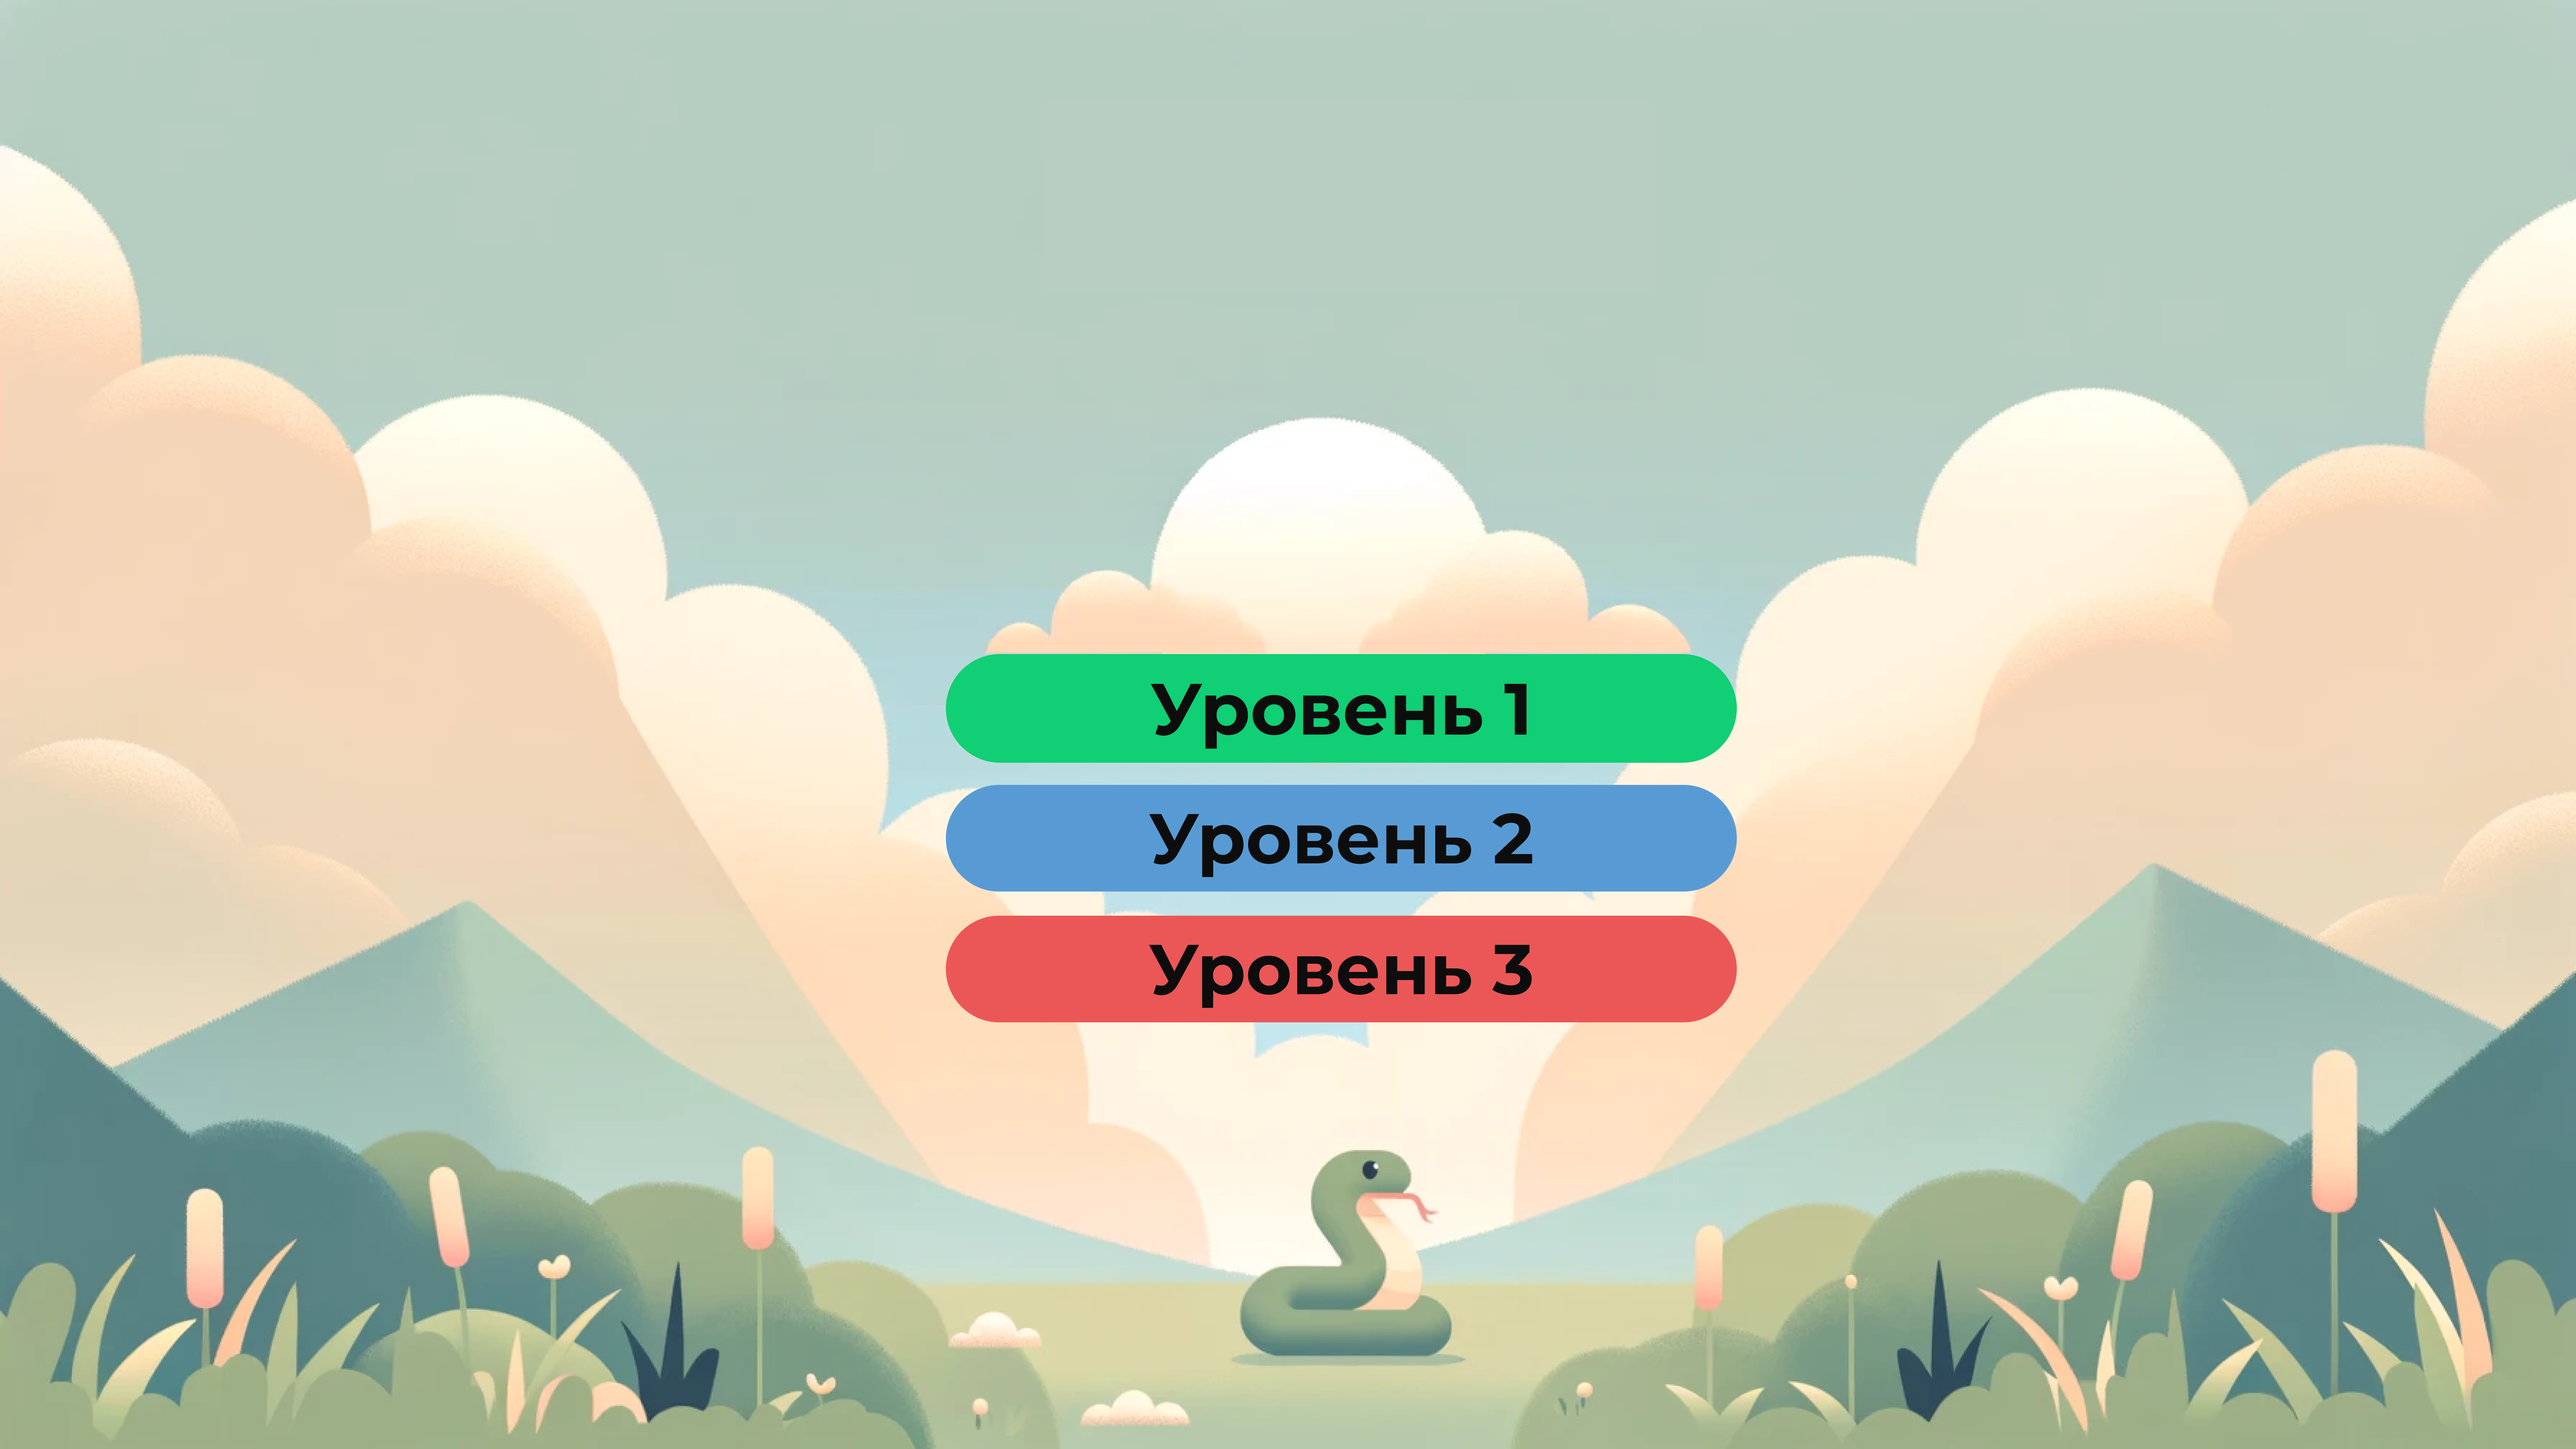
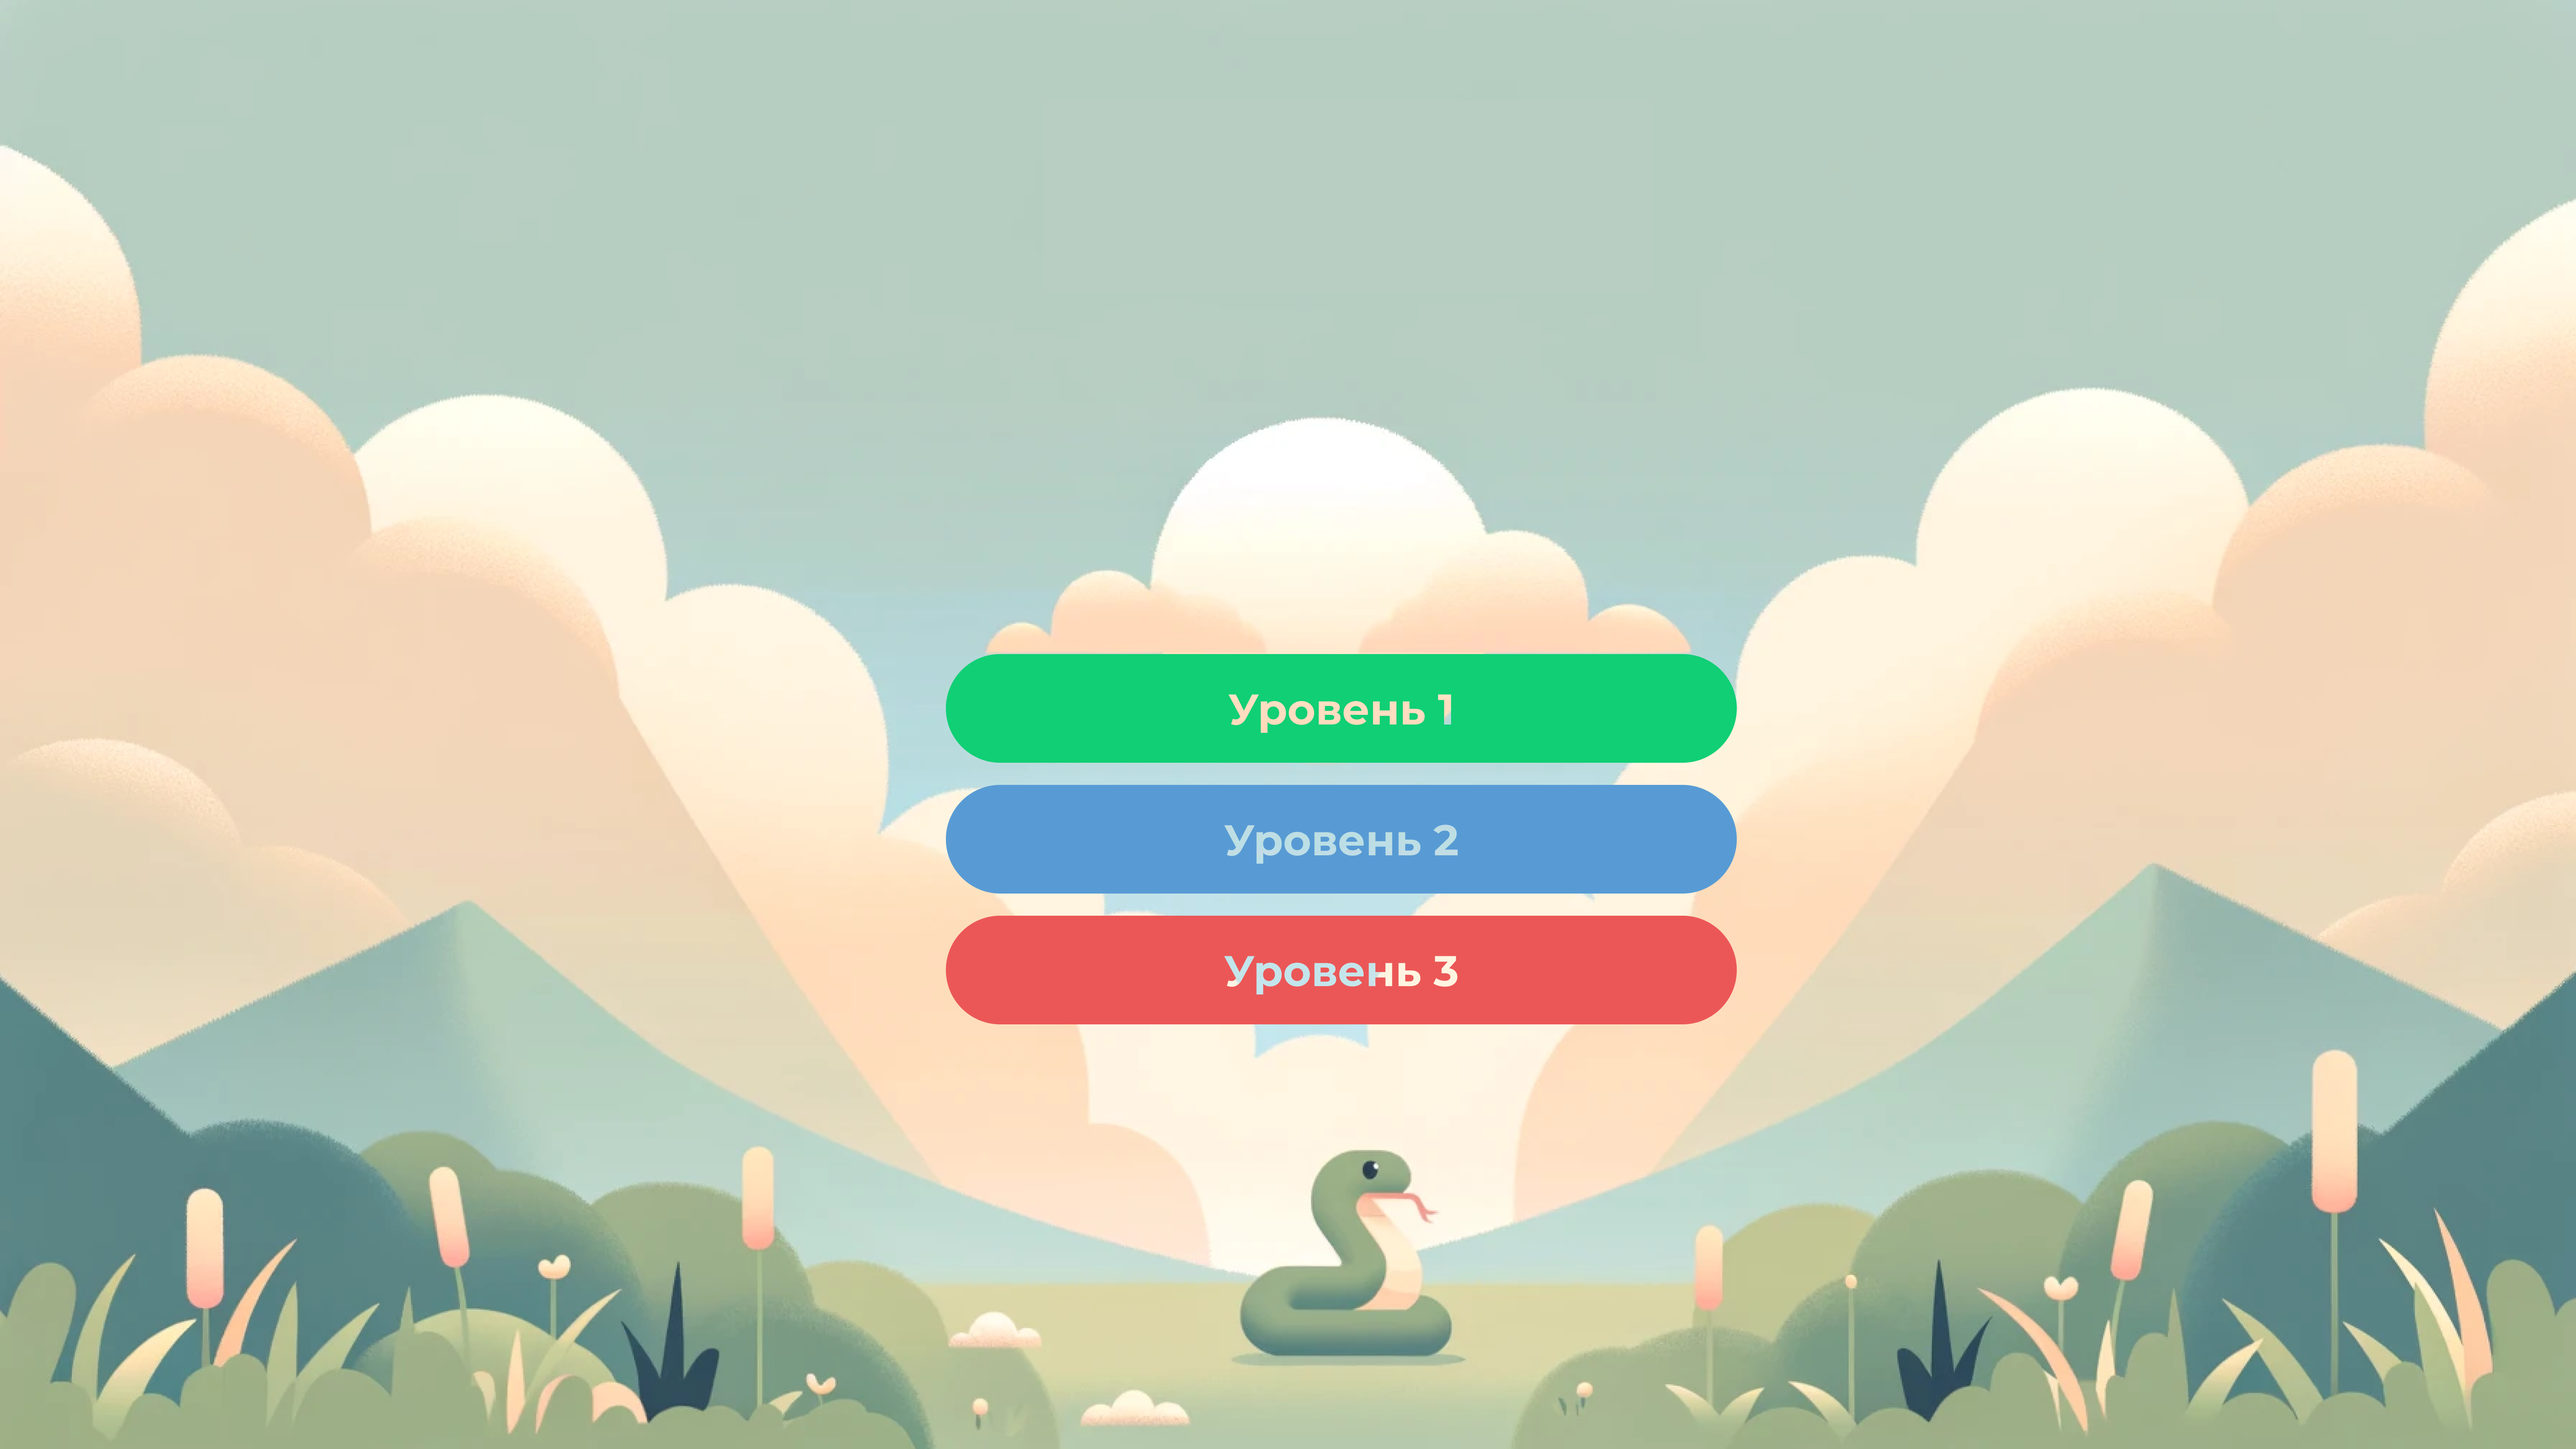
snake-level-all-v1.9

Changed region(s): [[0.4375, 0.56, 0.5938, 0.6222], [0.4375, 0.4667, 0.5938, 0.5289], [0.4375, 0.6533, 0.5938, 0.6844]]

diff --git a/level_choice_win.py b/level_choice_win.py
@@ -67,15 +67,14 @@ class Game:
                     self.Mouse_y in range(30, 30 + 40)):
                 self.running = False
 
-    def main_menu(self):
+    '''def main_menu(self):
         level1_button = self.button(*self.btn_level1_pos, self.green, 'Уровень 1', 30)
         level2_button = self.button(*self.btn_level2_pos, self.blue, 'Уровень 2', 30)
         level3_button = self.button(*self.btn_level3_pos, self.red, 'Уровень 3', 30)
         self.exit_button()
-        return level1_button, level2_button, level3_button
+        return level1_button, level2_button, level3_button'''
 
     def run(self):
-        level1_button, level2_button, level3_button = self.main_menu()
         while self.running:
             for event in pygame.event.get():
                 if event.type == pygame.QUIT:
@@ -95,7 +94,6 @@ class Game:
                         level3_snake.Level3().run()
 
             self.screen.blit(self.background_image, (0, 0))
-            self.main_menu()
             pygame.display.flip()
             self.clock.tick(50)
 

diff --git a/start_game.py b/start_game.py
@@ -13,7 +13,7 @@ class Game:
         self.background_image = pygame.image.load('data/main_menu.png')
         self.background_image = pygame.transform.scale(self.background_image, (self.width, self.height))
         self.btn_play_pos = [585, 450, 151, 36]
-        self.btn_skin_pos = [585, 500, 151, 36]
+        self.btn_skin_pos = [587, 511, 148, 36]
         self.clock = pygame.time.Clock()
         self.running = True
 
@@ -72,7 +72,6 @@ class Game:
                         print('Level_2()')  # Assuming Level_1 is another class like Game
 
             self.screen.blit(self.background_image, (0, 0))
-            self.main_menu()
             pygame.display.flip()
             self.clock.tick(50)
 
